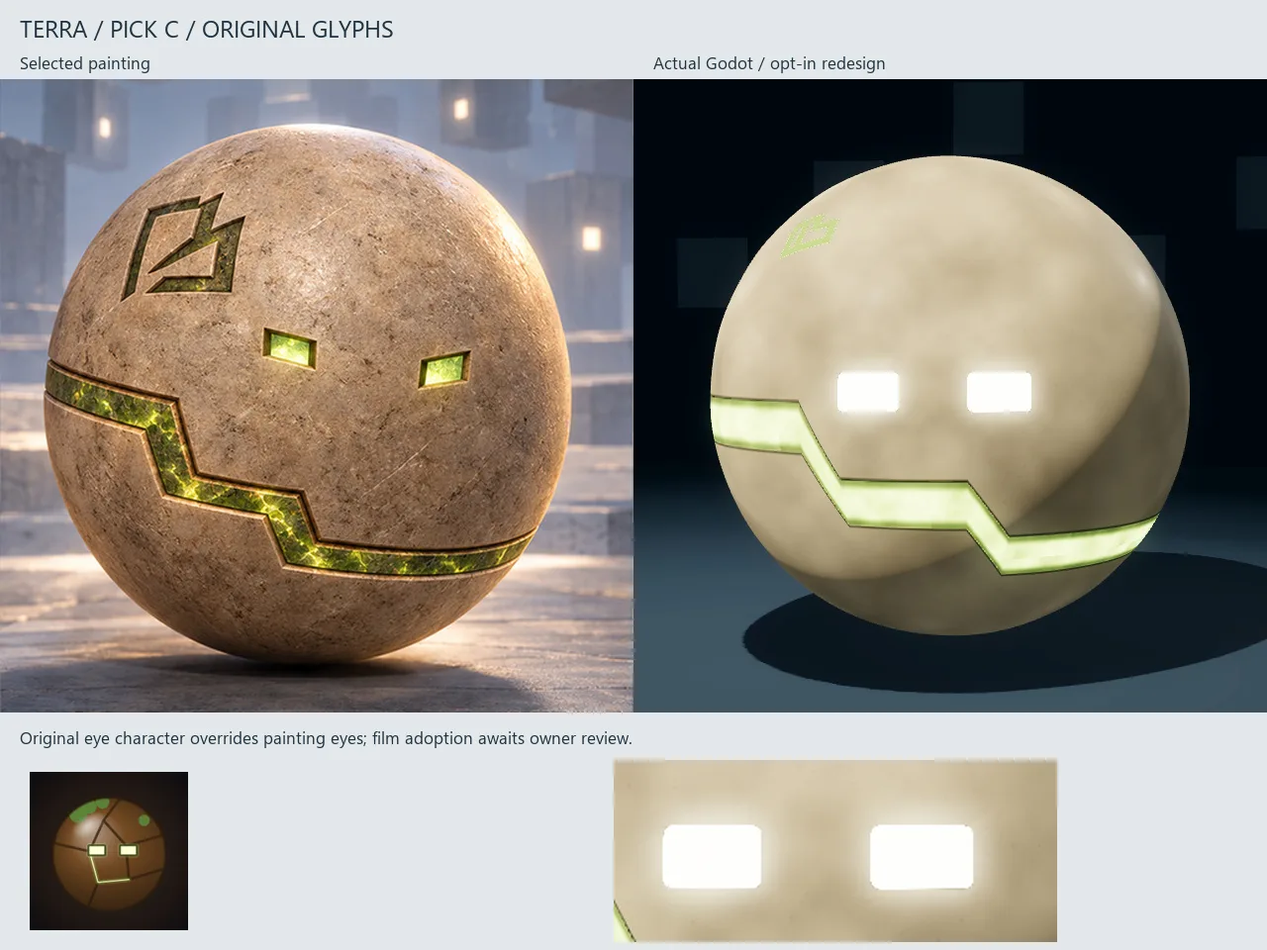
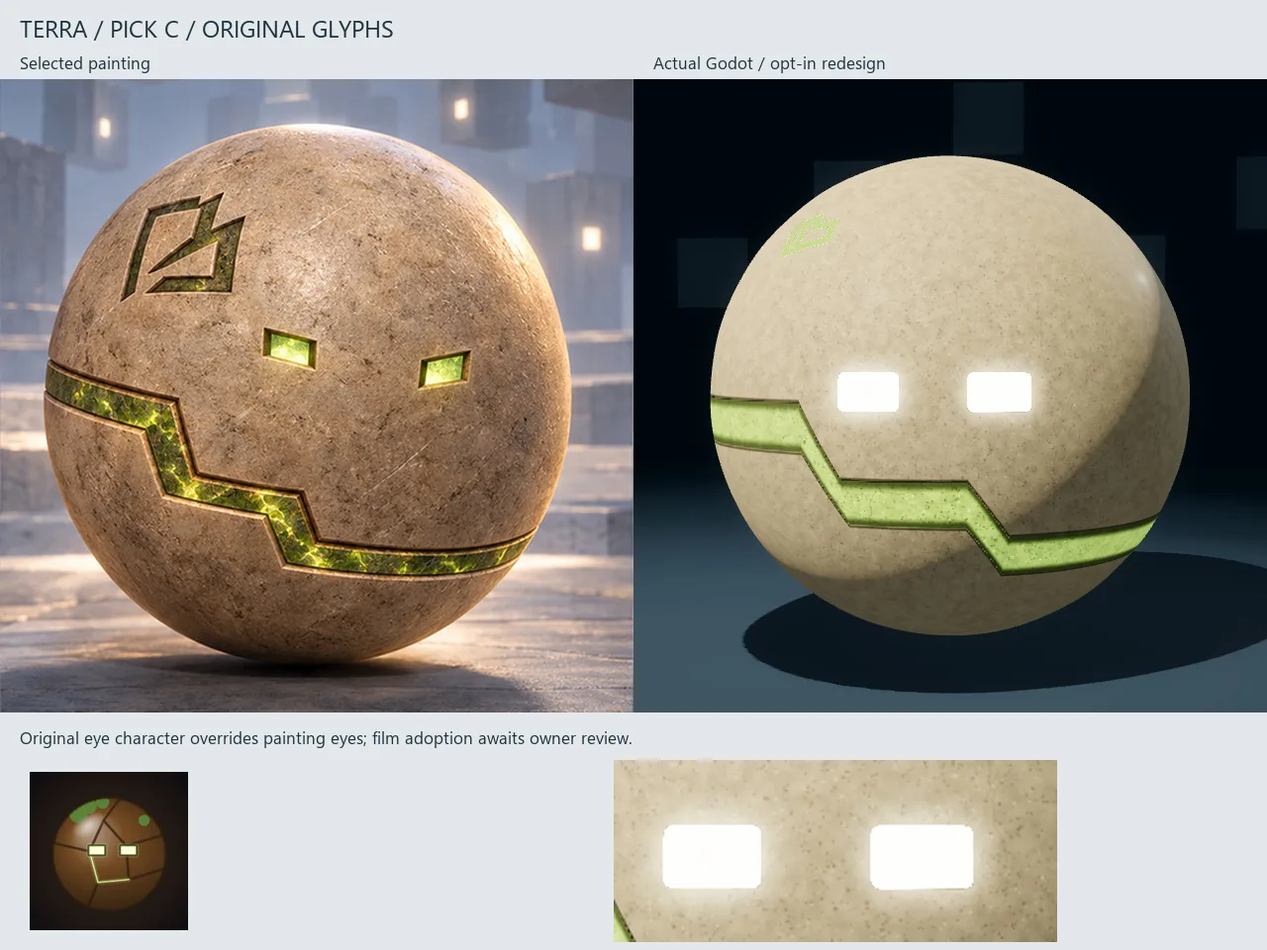
Update orb stills with mineral wear and cream eyes

diff --git a/index.html b/index.html
@@ -1,1 +1,1 @@
-<!doctype html><html lang="en"><head><meta charset="utf-8"><meta name="viewport" content="width=device-width,initial-scale=1"><meta name="description" content="Orb Fighters: building a living sandbox, one readable clash at a time."><meta name="color-scheme" content="light"><title>Development journal &middot; Orb Fighters</title><link rel="stylesheet" href="assets/style.css"></head><body><a class="skip" href="#main">Skip to content</a><header><a class="brand" href="index.html"><span class="brand-mark" aria-hidden="true">OF</span><span>ORB FIGHTERS<small>DEVELOPMENT JOURNAL</small></span></a><nav aria-label="Main navigation"><a href="index.html" aria-current="page">Home</a><a href="milestones.html">Milestones</a><a href="gallery.html">Gallery</a><a href="design.html">Design</a></nav></header><main id="main"><section class="hero"><div><p class="eyebrow">A WORLD IN THE MAKING</p><h1>Small beings.<br><span>Limitless possibility.</span></h1><p class="intro">Follow Orb Fighters as a living sandbox takes shape: expressive orbs, physical powers, and fights that leave a mark.</p><a class="button" href="milestones.html">Follow the milestones <span aria-hidden="true">&rarr;</span></a></div><div class="hero-media"><a class="hero-image-link" href="posts/2026-10-02-the-orbs-side-by-side.html" aria-label="Read the orb shell development update"><figure class="wip-still"><img src="assets/media/2026-10-02-the-orbs-side-by-side-still-2.webp?v=smooth-stone" alt="MAGNUS painting beside a smooth dark slate orb with a blue meridian and small minus and plus eyes" loading="eager" decoding="async"><figcaption><span class="wip-label">Work in progress</span> MAGNUS WIP: the dark slate shell and blue meridian remain distinct. The render is cleaner and cloudier than the painting, with a fairly uniform bright eye core.</figcaption></figure></a></div></section><section class="updates"><div class="section-title"><h2>Latest from the workshop</h2><span>NEWEST FIRST</span></div><div class="post-grid"><article class="post-card"><figure class="wip-still"><a href="assets/media/2026-10-02-twenty-seconds-in-the-duel-still-2.webp?v=late-clean"><img src="assets/media/2026-10-02-twenty-seconds-in-the-duel-still-2.webp?v=late-clean" alt="TERRA and BLAZE remain readable with the owned stone pillar removed after the second Clean" width="960" height="540" loading="lazy" decoding="async"></a><figcaption><span class="wip-label">Work in progress</span> 15.15 s - The world after the second actual C Clean: the owned pillar is gone and the pair is readable. This is not a successful counter or instant regeneration.</figcaption></figure><div class="post-meta"><time datetime="2026-10-02T17:05+09:00">02 Oct 2026, 17:05 KST</time><span class="badge">Work in progress</span></div><h2><a href="posts/2026-10-02-twenty-seconds-in-the-duel.html">Ordinary controls in the duel</a></h2><p>A twenty-second gameplay capture replays recorded mouse and key inputs through TERRA&#39;s ordinary controls against autonomous BLAZE. This is recorded input, not someone playing through the GUI or an authored reference fight. The current gameplay orbs remain in use; the selected shell study is still unapplied.</p><a class="read-more" href="posts/2026-10-02-twenty-seconds-in-the-duel.html">Read the update &rarr;</a></article><article class="post-card"><figure class="wip-still"><a href="assets/media/2026-10-02-a-fight-you-can-follow-still-2.webp?v=wide-pair"><img src="assets/media/2026-10-02-a-fight-you-can-follow-still-2.webp?v=wide-pair" alt="A wider fixed landing view shows both whole BLAZE and TERRA shells with the pillar beside them" width="1080" height="1920" loading="lazy" decoding="async"></a><figcaption><span class="wip-label">Work in progress</span> Approximately 8.23 s - The wider landing pair is established, with both whole shells visible and the pillar clear of them. An earlier camera transition still clips the frame edge.</figcaption></figure><div class="post-meta"><time datetime="2026-10-02T16:28+09:00">02 Oct 2026, 16:28 KST</time><span class="badge">Work in progress</span></div><h2><a href="posts/2026-10-02-a-fight-you-can-follow.html">Letting the landing read</a></h2><p>The reference fight now holds a wider, fixed view of BLAZE and TERRA through the landing. Both whole shells remain visible during the reviewed 8.25-9.25 second interval, and the pillar no longer covers them. The contact has room to read.</p><a class="read-more" href="posts/2026-10-02-a-fight-you-can-follow.html">Read the update &rarr;</a></article><article class="post-card"><figure class="wip-still"><a href="assets/media/2026-10-02-the-orbs-side-by-side-still-1.webp?v=smooth-stone"><img src="assets/media/2026-10-02-the-orbs-side-by-side-still-1.webp?v=smooth-stone" alt="Eight selected shell paintings beside smooth stone and ceramic orb renders in a dark studio" loading="lazy" decoding="async"></a><figcaption><span class="wip-label">Work in progress</span> Updated WIP: smoother stone and ceramic shells, wider lit inlays and a darker studio. Original small glyphs and distinct colours remain; wear and eye-light depth still need work.</figcaption></figure><div class="post-meta"><time datetime="2026-10-02T16:05:00+09:00">02 Oct 2026, 16:05 KST</time><span class="badge">Work in progress</span></div><h2><a href="posts/2026-10-02-the-orbs-side-by-side.html">Original small glyphs, eight shell directions</a></h2><p>Eight orb shells now read more like smooth stone and ceramic. Wider lit inlays stand out in a darker studio, while the small original eye glyphs and distinct colours remain.</p><a class="read-more" href="posts/2026-10-02-the-orbs-side-by-side.html">Read the update &rarr;</a></article><article class="post-card"><figure class="wip-still"><img src="assets/media/2026-10-01-a-cleaner-reference-fight-still-1.webp" alt="BLAZE drives an orange blade toward TERRA amid sparks in the earlier reference pass" width="1080" height="1920" loading="lazy" decoding="async"><figcaption><span class="wip-label">Work in progress</span> Before: the contact is readable, but bright sparks and steam crowd its focal point. This is authored reference-animation WIP.</figcaption></figure><div class="post-meta"><time datetime="2026-10-01T11:07:00+09:00">01 Oct 2026, 11:07 KST</time><span class="badge">M1</span><span class="badge">In progress</span></div><h2><a href="posts/2026-10-01-a-cleaner-reference-fight.html">A cleaner reference fight</a></h2><p>We have withdrawn the short video from this reference-fight update because the action is too confusing. Frequent angle changes, crowded fighters and weak plasma shapes make the exchange hard to follow. These work-in-progress stills remain for comparison while we rebuild the sequence.</p><a class="read-more" href="posts/2026-10-01-a-cleaner-reference-fight.html">Read the update <span aria-hidden="true">&rarr;</span></a></article><article class="post-card"><figure class="wip-still"><img src="assets/media/2026-10-01-moves-tested-as-a-complete-chain-still-1.webp" alt="Warm earth-colored TERRA faces vivid red BLAZE at a staged contact" width="1080" height="1920" loading="lazy" decoding="async"><figcaption><span class="wip-label">Work in progress</span> Latest selected orb material WIP. Red body shading is clearer, but the blade remains hidden; the next reference render changes the contact staging.</figcaption></figure><div class="post-meta"><time datetime="2026-10-01T09:44:00+09:00">01 Oct 2026, 09:44 KST</time><span class="badge">M1</span><span class="badge">In progress</span></div><h2><a href="posts/2026-10-01-moves-tested-as-a-complete-chain.html">Testing moves as a complete chain</a></h2><p>A technique can now reach the native duel core as a complete ordered chain of moves. The core quotes the whole chain before accepting it, so a later step cannot quietly overspend Glow or reuse matter that an earlier step has already reserved. An invalid step leaves the world unchanged.</p><a class="read-more" href="posts/2026-10-01-moves-tested-as-a-complete-chain.html">Read the update <span aria-hidden="true">&rarr;</span></a></article><article class="post-card"><figure class="wip-still"><img src="assets/media/2026-10-01-kept-builds-survive-a-fresh-world-still-1.webp" alt="A surviving stone pillar stands after a scripted Keep action" width="1080" height="1920" loading="lazy" decoding="async"><figcaption><span class="wip-label">Work in progress</span> Later native capture of the paid kept build. Its surviving state is tested, but the pale box material is unfinished; detailed stone shading is next.</figcaption></figure><div class="post-meta"><time datetime="2026-10-01T09:01:00+09:00">01 Oct 2026, 09:01 KST</time><span class="badge">M1</span><span class="badge">In progress</span></div><h2><a href="posts/2026-10-01-kept-builds-survive-a-fresh-world.html">Kept builds survive a fresh world</a></h2><p>The latest scripted control test now keeps a real, surviving stone build. The player targets it, pays once, and a repeated Keep action spends nothing extra. Clean leaves that paid kept build intact without issuing a refund.</p><a class="read-more" href="posts/2026-10-01-kept-builds-survive-a-fresh-world.html">Read the update <span aria-hidden="true">&rarr;</span></a></article><article class="post-card"><figure class="wip-still"><img src="assets/media/2026-10-01-controls-reach-the-duel-still-1.webp" alt="TERRA shapes stone beside BLAZE during a native input test" width="1080" height="1920" loading="lazy" decoding="async"><figcaption><span class="wip-label">Work in progress</span> Later recorded follow-up to the scripted contacts. The native input path works, but the pale pillar reads poorly; surface materials are next.</figcaption></figure><div class="post-meta"><time datetime="2026-10-01T08:31:00+09:00">01 Oct 2026, 08:31 KST</time><span class="badge">M1</span><span class="badge">In progress</span></div><h2><a href="posts/2026-10-01-controls-reach-the-duel.html">The controls reach the duel</a></h2><p>The latest scripted control test produced three physical contacts and a broken guard between TERRA and BLAZE. Every authored movement and power-shape upload in that run was accepted. The controls and shared motion now connect to the native duel&#39;s consequences.</p><a class="read-more" href="posts/2026-10-01-controls-reach-the-duel.html">Read the update <span aria-hidden="true">&rarr;</span></a></article><article class="post-card"><figure class="wip-still"><img src="assets/media/2026-10-01-giving-moves-real-consequences-still-1.webp" alt="TERRA and BLAZE stand beside a newly formed stone pillar" width="1080" height="1920" loading="lazy" decoding="async"><figcaption><span class="wip-label">Work in progress</span> Later native control capture, not the backend fixture described above. Geometry and costs are native, but stone shading and the small viewport need work.</figcaption></figure><div class="post-meta"><time datetime="2026-10-01T07:39:00+09:00">01 Oct 2026, 07:39 KST</time><span class="badge">M1</span><span class="badge">In progress</span></div><h2><a href="posts/2026-10-01-giving-moves-real-consequences.html">Giving moves real consequences</a></h2><p>The new duel backend now runs inside Godot. It accepts authored movement and power shapes, checks the available Glow and existing matter, and resolves physical contacts. Animation supplies the movement; the core accounts for its consequences.</p><a class="read-more" href="posts/2026-10-01-giving-moves-real-consequences.html">Read the update <span aria-hidden="true">&rarr;</span></a></article><article class="post-card"><figure class="wip-still"><img src="assets/media/2026-10-01-the-journal-is-live-still-1.webp" alt="The development journal home page with dated progress posts" width="1280" height="2258" loading="lazy" decoding="async"><figcaption><span class="wip-label">Work in progress</span> Later journal screenshot. This earlier layout still had no post media; images and short WIP clips are being added now.</figcaption></figure><div class="post-meta"><time datetime="2026-10-01T06:55:00+09:00">01 Oct 2026, 06:55 KST</time><span class="badge">M1</span><span class="badge">In progress</span></div><h2><a href="posts/2026-10-01-the-journal-is-live.html">The development journal is live</a></h2><p>This journal is now online. It brings together the latest development posts, milestone status and a readable summary of the design, so the progress of Orb Fighters is easier to follow on a phone.</p><a class="read-more" href="posts/2026-10-01-the-journal-is-live.html">Read the update <span aria-hidden="true">&rarr;</span></a></article><article class="post-card"><figure class="wip-still"><img src="assets/media/2026-10-01-making-fields-visible-still-1.webp" alt="MAGNUS prepares magnetic power above scattered metal filings" width="720" height="1280" loading="lazy" decoding="async"><figcaption><span class="wip-label">Work in progress</span> Cosmetic component WIP: tangible filings show the field, but they disappear at phone size. Larger, clearer alignment changes are next.</figcaption></figure><div class="post-meta"><time datetime="2026-10-01T05:24:00+09:00">01 Oct 2026, 05:24 KST</time><span class="badge">M1</span><span class="badge">In progress</span></div><h2><a href="posts/2026-10-01-making-fields-visible.html">Making fields visible through matter</a></h2><p>The latest MAGNUS study shows magnetic power through metal filings and moving alloy fragments. The field becomes visible through what it moves, giving this fighter a different shape language from stone, plasma and electrical discharge.</p><a class="read-more" href="posts/2026-10-01-making-fields-visible.html">Read the update <span aria-hidden="true">&rarr;</span></a></article><article class="post-card"><figure class="wip-still"><img src="assets/media/2026-10-01-framing-the-moment-of-contact-still-1.webp" alt="TERRA faces the camera under a dense stone-dust effect" width="1080" height="1920" loading="lazy" decoding="async"><figcaption><span class="wip-label">Work in progress</span> Camera-revision WIP: the fighter is large, but dense dust and speed lines compete with its eyes. Cleaner contact shapes are next.</figcaption></figure><div class="post-meta"><time datetime="2026-10-01T04:45:00+09:00">01 Oct 2026, 04:45 KST</time><span class="badge">M1</span><span class="badge">In progress</span></div><h2><a href="posts/2026-10-01-framing-the-moment-of-contact.html">Framing the moment of contact</a></h2><p>The latest reference-fight camera brings more of the action into view. In the recorded revision, 466 of 600 frames meet the current fighter-size and framing target, up from 332. The target is 480, and all three major impacts now keep the fighter shells inside their safety margin.</p><a class="read-more" href="posts/2026-10-01-framing-the-moment-of-contact.html">Read the update <span aria-hidden="true">&rarr;</span></a></article><article class="post-card"><figure class="wip-still"><img src="assets/media/2026-10-01-making-the-workshop-readable-still-1.webp" alt="TERRA is shown in a dedicated dummy view above technique fields" width="1080" height="1920" loading="lazy" decoding="async"><figcaption><span class="wip-label">Work in progress</span> Later control-only follow-up: the dummy has its own view. Combat is unavailable; more space for the fight is still needed.</figcaption></figure><div class="post-meta"><time datetime="2026-10-01T04:03:00+09:00">01 Oct 2026, 04:03 KST</time><span class="badge">M4</span><span class="badge">Groundwork</span></div><h2><a href="posts/2026-10-01-making-the-workshop-readable.html">Making the workshop readable</a></h2><p>The technique workshop now gives its live dummy a separate view. Larger text and scrolling controls let you adjust a recipe without covering the orb&#39;s eyes. The control guide has its own space, so instructions stay clear of the demonstration.</p><a class="read-more" href="posts/2026-10-01-making-the-workshop-readable.html">Read the update <span aria-hidden="true">&rarr;</span></a></article><article class="post-card"><figure class="wip-still"><img src="assets/media/2026-10-01-testing-controls-before-the-duel-still-1.webp" alt="TERRA faces BLAZE while a gesture charge is shown" width="1080" height="1920" loading="lazy" decoding="async"><figcaption><span class="wip-label">Work in progress</span> Input prototype only: combat is unavailable in this version. The faint guide and cramped opening view need correction.</figcaption></figure><div class="post-meta"><time datetime="2026-10-01T03:15:00+09:00">01 Oct 2026, 03:15 KST</time><span class="badge">M4</span><span class="badge">Groundwork</span></div><h2><a href="posts/2026-10-01-testing-controls-before-the-duel.html">Testing the controls before the duel</a></h2><p>The first control prototype now runs inside Godot. A recorded input session exercises direction and charge, releasing a technique, quick reactions, lock-on, Clean and Keep requests, and the technique workshop. Thirteen checks passed for input handling and saved recipes.</p><a class="read-more" href="posts/2026-10-01-testing-controls-before-the-duel.html">Read the update <span aria-hidden="true">&rarr;</span></a></article><article class="post-card"><figure class="wip-still"><img src="assets/media/2026-10-01-craft-and-first-playable-still-1.webp" alt="TERRA braces below a cloud of stone dust" width="1080" height="1920" loading="lazy" decoding="async"><figcaption><span class="wip-label">Work in progress</span> Later reference-animation WIP: dust and stone crowd the contact image. Clearer effect staging and quieter scenery are next.</figcaption></figure><div class="post-meta"><time datetime="2026-10-01T02:44:00+09:00">01 Oct 2026, 02:44 KST</time><span class="badge">M1</span><span class="badge">In progress</span></div><h2><a href="posts/2026-10-01-craft-and-first-playable.html">A clearer fight, a brighter world</a></h2><p>Orb Fighters is building toward fluid, creative power fights in a world that remembers what happened. The first reference spar pairs BLAZE&#39;s plasma with TERRA&#39;s stone shaping. That short fight sets the quality target before the systems grow around it.</p><a class="read-more" href="posts/2026-10-01-craft-and-first-playable.html">Read the update <span aria-hidden="true">&rarr;</span></a></article></div></section></main><footer><strong>Orb Fighters</strong><span>Original worlds. Shared rules. Unexpected fights.</span><a href="design.html">Explore the design</a></footer></body></html>
+<!doctype html><html lang="en"><head><meta charset="utf-8"><meta name="viewport" content="width=device-width,initial-scale=1"><meta name="description" content="Orb Fighters: building a living sandbox, one readable clash at a time."><meta name="color-scheme" content="light"><title>Development journal &middot; Orb Fighters</title><link rel="stylesheet" href="assets/style.css"></head><body><a class="skip" href="#main">Skip to content</a><header><a class="brand" href="index.html"><span class="brand-mark" aria-hidden="true">OF</span><span>ORB FIGHTERS<small>DEVELOPMENT JOURNAL</small></span></a><nav aria-label="Main navigation"><a href="index.html" aria-current="page">Home</a><a href="milestones.html">Milestones</a><a href="gallery.html">Gallery</a><a href="design.html">Design</a></nav></header><main id="main"><section class="hero"><div><p class="eyebrow">A WORLD IN THE MAKING</p><h1>Small beings.<br><span>Limitless possibility.</span></h1><p class="intro">Follow Orb Fighters as a living sandbox takes shape: expressive orbs, physical powers, and fights that leave a mark.</p><a class="button" href="milestones.html">Follow the milestones <span aria-hidden="true">&rarr;</span></a></div><div class="hero-media"><a class="hero-image-link" href="posts/2026-10-02-the-orbs-side-by-side.html" aria-label="Read the orb material development update"><figure class="wip-still"><img src="assets/media/2026-10-02-the-orbs-side-by-side-still-2.webp?v=mineral-cream" alt="MAGNUS painting beside a dark slate mineral shell with a textured blue meridian and small cream minus and plus eyes" loading="eager" decoding="async"><figcaption><span class="wip-label">Work in progress</span> MAGNUS WIP: the dark slate shell keeps fine pores and uneven wear around its blue meridian. The eye cores are still flat white, and the pale sigil and material depth remain unfinished.</figcaption></figure></a></div></section><section class="updates"><div class="section-title"><h2>Latest from the workshop</h2><span>NEWEST FIRST</span></div><div class="post-grid"><article class="post-card"><figure class="wip-still"><a href="assets/media/2026-10-02-twenty-seconds-in-the-duel-still-2.webp?v=late-clean"><img src="assets/media/2026-10-02-twenty-seconds-in-the-duel-still-2.webp?v=late-clean" alt="TERRA and BLAZE remain readable with the owned stone pillar removed after the second Clean" width="960" height="540" loading="lazy" decoding="async"></a><figcaption><span class="wip-label">Work in progress</span> 15.15 s - The world after the second actual C Clean: the owned pillar is gone and the pair is readable. This is not a successful counter or instant regeneration.</figcaption></figure><div class="post-meta"><time datetime="2026-10-02T17:05+09:00">02 Oct 2026, 17:05 KST</time><span class="badge">Work in progress</span></div><h2><a href="posts/2026-10-02-twenty-seconds-in-the-duel.html">Ordinary controls in the duel</a></h2><p>A twenty-second gameplay capture replays recorded mouse and key inputs through TERRA&#39;s ordinary controls against autonomous BLAZE. This is recorded input, not someone playing through the GUI or an authored reference fight. The current gameplay orbs remain in use; the selected shell study is still unapplied.</p><a class="read-more" href="posts/2026-10-02-twenty-seconds-in-the-duel.html">Read the update &rarr;</a></article><article class="post-card"><figure class="wip-still"><a href="assets/media/2026-10-02-a-fight-you-can-follow-still-2.webp?v=wide-pair"><img src="assets/media/2026-10-02-a-fight-you-can-follow-still-2.webp?v=wide-pair" alt="A wider fixed landing view shows both whole BLAZE and TERRA shells with the pillar beside them" width="1080" height="1920" loading="lazy" decoding="async"></a><figcaption><span class="wip-label">Work in progress</span> Approximately 8.23 s - The wider landing pair is established, with both whole shells visible and the pillar clear of them. An earlier camera transition still clips the frame edge.</figcaption></figure><div class="post-meta"><time datetime="2026-10-02T16:28+09:00">02 Oct 2026, 16:28 KST</time><span class="badge">Work in progress</span></div><h2><a href="posts/2026-10-02-a-fight-you-can-follow.html">Letting the landing read</a></h2><p>The reference fight now holds a wider, fixed view of BLAZE and TERRA through the landing. Both whole shells remain visible during the reviewed 8.25-9.25 second interval, and the pillar no longer covers them. The contact has room to read.</p><a class="read-more" href="posts/2026-10-02-a-fight-you-can-follow.html">Read the update &rarr;</a></article><article class="post-card"><figure class="wip-still"><a href="assets/media/2026-10-02-the-orbs-side-by-side-still-1.webp?v=mineral-cream"><img src="assets/media/2026-10-02-the-orbs-side-by-side-still-1.webp?v=mineral-cream" alt="Eight selected paintings beside mineral-textured stone and ceramic orb studies with original small cream eye glyphs" loading="lazy" decoding="async"></a><figcaption><span class="wip-label">Work in progress</span> Mineral WIP: fine pores, inclusions and uneven wear replace cloudy patches. Wider coloured channels carry texture; lit core interiors and pale sigils still need depth.</figcaption></figure><div class="post-meta"><time datetime="2026-10-02T16:05:00+09:00">02 Oct 2026, 16:05 KST</time><span class="badge">Work in progress</span></div><h2><a href="posts/2026-10-02-the-orbs-side-by-side.html">Original small glyphs, eight shell directions</a></h2><p>The eight shells now use fine mineral pores, inclusions and uneven wear instead of broad cloudy patches. Stone and ceramic stay restrained, while wider coloured channels carry texture in a dark studio. MAGNUS keeps its dark slate body.</p><a class="read-more" href="posts/2026-10-02-the-orbs-side-by-side.html">Read the update &rarr;</a></article><article class="post-card"><figure class="wip-still"><img src="assets/media/2026-10-01-a-cleaner-reference-fight-still-1.webp" alt="BLAZE drives an orange blade toward TERRA amid sparks in the earlier reference pass" width="1080" height="1920" loading="lazy" decoding="async"><figcaption><span class="wip-label">Work in progress</span> Before: the contact is readable, but bright sparks and steam crowd its focal point. This is authored reference-animation WIP.</figcaption></figure><div class="post-meta"><time datetime="2026-10-01T11:07:00+09:00">01 Oct 2026, 11:07 KST</time><span class="badge">M1</span><span class="badge">In progress</span></div><h2><a href="posts/2026-10-01-a-cleaner-reference-fight.html">A cleaner reference fight</a></h2><p>We have withdrawn the short video from this reference-fight update because the action is too confusing. Frequent angle changes, crowded fighters and weak plasma shapes make the exchange hard to follow. These work-in-progress stills remain for comparison while we rebuild the sequence.</p><a class="read-more" href="posts/2026-10-01-a-cleaner-reference-fight.html">Read the update <span aria-hidden="true">&rarr;</span></a></article><article class="post-card"><figure class="wip-still"><img src="assets/media/2026-10-01-moves-tested-as-a-complete-chain-still-1.webp" alt="Warm earth-colored TERRA faces vivid red BLAZE at a staged contact" width="1080" height="1920" loading="lazy" decoding="async"><figcaption><span class="wip-label">Work in progress</span> Latest selected orb material WIP. Red body shading is clearer, but the blade remains hidden; the next reference render changes the contact staging.</figcaption></figure><div class="post-meta"><time datetime="2026-10-01T09:44:00+09:00">01 Oct 2026, 09:44 KST</time><span class="badge">M1</span><span class="badge">In progress</span></div><h2><a href="posts/2026-10-01-moves-tested-as-a-complete-chain.html">Testing moves as a complete chain</a></h2><p>A technique can now reach the native duel core as a complete ordered chain of moves. The core quotes the whole chain before accepting it, so a later step cannot quietly overspend Glow or reuse matter that an earlier step has already reserved. An invalid step leaves the world unchanged.</p><a class="read-more" href="posts/2026-10-01-moves-tested-as-a-complete-chain.html">Read the update <span aria-hidden="true">&rarr;</span></a></article><article class="post-card"><figure class="wip-still"><img src="assets/media/2026-10-01-kept-builds-survive-a-fresh-world-still-1.webp" alt="A surviving stone pillar stands after a scripted Keep action" width="1080" height="1920" loading="lazy" decoding="async"><figcaption><span class="wip-label">Work in progress</span> Later native capture of the paid kept build. Its surviving state is tested, but the pale box material is unfinished; detailed stone shading is next.</figcaption></figure><div class="post-meta"><time datetime="2026-10-01T09:01:00+09:00">01 Oct 2026, 09:01 KST</time><span class="badge">M1</span><span class="badge">In progress</span></div><h2><a href="posts/2026-10-01-kept-builds-survive-a-fresh-world.html">Kept builds survive a fresh world</a></h2><p>The latest scripted control test now keeps a real, surviving stone build. The player targets it, pays once, and a repeated Keep action spends nothing extra. Clean leaves that paid kept build intact without issuing a refund.</p><a class="read-more" href="posts/2026-10-01-kept-builds-survive-a-fresh-world.html">Read the update <span aria-hidden="true">&rarr;</span></a></article><article class="post-card"><figure class="wip-still"><img src="assets/media/2026-10-01-controls-reach-the-duel-still-1.webp" alt="TERRA shapes stone beside BLAZE during a native input test" width="1080" height="1920" loading="lazy" decoding="async"><figcaption><span class="wip-label">Work in progress</span> Later recorded follow-up to the scripted contacts. The native input path works, but the pale pillar reads poorly; surface materials are next.</figcaption></figure><div class="post-meta"><time datetime="2026-10-01T08:31:00+09:00">01 Oct 2026, 08:31 KST</time><span class="badge">M1</span><span class="badge">In progress</span></div><h2><a href="posts/2026-10-01-controls-reach-the-duel.html">The controls reach the duel</a></h2><p>The latest scripted control test produced three physical contacts and a broken guard between TERRA and BLAZE. Every authored movement and power-shape upload in that run was accepted. The controls and shared motion now connect to the native duel&#39;s consequences.</p><a class="read-more" href="posts/2026-10-01-controls-reach-the-duel.html">Read the update <span aria-hidden="true">&rarr;</span></a></article><article class="post-card"><figure class="wip-still"><img src="assets/media/2026-10-01-giving-moves-real-consequences-still-1.webp" alt="TERRA and BLAZE stand beside a newly formed stone pillar" width="1080" height="1920" loading="lazy" decoding="async"><figcaption><span class="wip-label">Work in progress</span> Later native control capture, not the backend fixture described above. Geometry and costs are native, but stone shading and the small viewport need work.</figcaption></figure><div class="post-meta"><time datetime="2026-10-01T07:39:00+09:00">01 Oct 2026, 07:39 KST</time><span class="badge">M1</span><span class="badge">In progress</span></div><h2><a href="posts/2026-10-01-giving-moves-real-consequences.html">Giving moves real consequences</a></h2><p>The new duel backend now runs inside Godot. It accepts authored movement and power shapes, checks the available Glow and existing matter, and resolves physical contacts. Animation supplies the movement; the core accounts for its consequences.</p><a class="read-more" href="posts/2026-10-01-giving-moves-real-consequences.html">Read the update <span aria-hidden="true">&rarr;</span></a></article><article class="post-card"><figure class="wip-still"><img src="assets/media/2026-10-01-the-journal-is-live-still-1.webp" alt="The development journal home page with dated progress posts" width="1280" height="2258" loading="lazy" decoding="async"><figcaption><span class="wip-label">Work in progress</span> Later journal screenshot. This earlier layout still had no post media; images and short WIP clips are being added now.</figcaption></figure><div class="post-meta"><time datetime="2026-10-01T06:55:00+09:00">01 Oct 2026, 06:55 KST</time><span class="badge">M1</span><span class="badge">In progress</span></div><h2><a href="posts/2026-10-01-the-journal-is-live.html">The development journal is live</a></h2><p>This journal is now online. It brings together the latest development posts, milestone status and a readable summary of the design, so the progress of Orb Fighters is easier to follow on a phone.</p><a class="read-more" href="posts/2026-10-01-the-journal-is-live.html">Read the update <span aria-hidden="true">&rarr;</span></a></article><article class="post-card"><figure class="wip-still"><img src="assets/media/2026-10-01-making-fields-visible-still-1.webp" alt="MAGNUS prepares magnetic power above scattered metal filings" width="720" height="1280" loading="lazy" decoding="async"><figcaption><span class="wip-label">Work in progress</span> Cosmetic component WIP: tangible filings show the field, but they disappear at phone size. Larger, clearer alignment changes are next.</figcaption></figure><div class="post-meta"><time datetime="2026-10-01T05:24:00+09:00">01 Oct 2026, 05:24 KST</time><span class="badge">M1</span><span class="badge">In progress</span></div><h2><a href="posts/2026-10-01-making-fields-visible.html">Making fields visible through matter</a></h2><p>The latest MAGNUS study shows magnetic power through metal filings and moving alloy fragments. The field becomes visible through what it moves, giving this fighter a different shape language from stone, plasma and electrical discharge.</p><a class="read-more" href="posts/2026-10-01-making-fields-visible.html">Read the update <span aria-hidden="true">&rarr;</span></a></article><article class="post-card"><figure class="wip-still"><img src="assets/media/2026-10-01-framing-the-moment-of-contact-still-1.webp" alt="TERRA faces the camera under a dense stone-dust effect" width="1080" height="1920" loading="lazy" decoding="async"><figcaption><span class="wip-label">Work in progress</span> Camera-revision WIP: the fighter is large, but dense dust and speed lines compete with its eyes. Cleaner contact shapes are next.</figcaption></figure><div class="post-meta"><time datetime="2026-10-01T04:45:00+09:00">01 Oct 2026, 04:45 KST</time><span class="badge">M1</span><span class="badge">In progress</span></div><h2><a href="posts/2026-10-01-framing-the-moment-of-contact.html">Framing the moment of contact</a></h2><p>The latest reference-fight camera brings more of the action into view. In the recorded revision, 466 of 600 frames meet the current fighter-size and framing target, up from 332. The target is 480, and all three major impacts now keep the fighter shells inside their safety margin.</p><a class="read-more" href="posts/2026-10-01-framing-the-moment-of-contact.html">Read the update <span aria-hidden="true">&rarr;</span></a></article><article class="post-card"><figure class="wip-still"><img src="assets/media/2026-10-01-making-the-workshop-readable-still-1.webp" alt="TERRA is shown in a dedicated dummy view above technique fields" width="1080" height="1920" loading="lazy" decoding="async"><figcaption><span class="wip-label">Work in progress</span> Later control-only follow-up: the dummy has its own view. Combat is unavailable; more space for the fight is still needed.</figcaption></figure><div class="post-meta"><time datetime="2026-10-01T04:03:00+09:00">01 Oct 2026, 04:03 KST</time><span class="badge">M4</span><span class="badge">Groundwork</span></div><h2><a href="posts/2026-10-01-making-the-workshop-readable.html">Making the workshop readable</a></h2><p>The technique workshop now gives its live dummy a separate view. Larger text and scrolling controls let you adjust a recipe without covering the orb&#39;s eyes. The control guide has its own space, so instructions stay clear of the demonstration.</p><a class="read-more" href="posts/2026-10-01-making-the-workshop-readable.html">Read the update <span aria-hidden="true">&rarr;</span></a></article><article class="post-card"><figure class="wip-still"><img src="assets/media/2026-10-01-testing-controls-before-the-duel-still-1.webp" alt="TERRA faces BLAZE while a gesture charge is shown" width="1080" height="1920" loading="lazy" decoding="async"><figcaption><span class="wip-label">Work in progress</span> Input prototype only: combat is unavailable in this version. The faint guide and cramped opening view need correction.</figcaption></figure><div class="post-meta"><time datetime="2026-10-01T03:15:00+09:00">01 Oct 2026, 03:15 KST</time><span class="badge">M4</span><span class="badge">Groundwork</span></div><h2><a href="posts/2026-10-01-testing-controls-before-the-duel.html">Testing the controls before the duel</a></h2><p>The first control prototype now runs inside Godot. A recorded input session exercises direction and charge, releasing a technique, quick reactions, lock-on, Clean and Keep requests, and the technique workshop. Thirteen checks passed for input handling and saved recipes.</p><a class="read-more" href="posts/2026-10-01-testing-controls-before-the-duel.html">Read the update <span aria-hidden="true">&rarr;</span></a></article><article class="post-card"><figure class="wip-still"><img src="assets/media/2026-10-01-craft-and-first-playable-still-1.webp" alt="TERRA braces below a cloud of stone dust" width="1080" height="1920" loading="lazy" decoding="async"><figcaption><span class="wip-label">Work in progress</span> Later reference-animation WIP: dust and stone crowd the contact image. Clearer effect staging and quieter scenery are next.</figcaption></figure><div class="post-meta"><time datetime="2026-10-01T02:44:00+09:00">01 Oct 2026, 02:44 KST</time><span class="badge">M1</span><span class="badge">In progress</span></div><h2><a href="posts/2026-10-01-craft-and-first-playable.html">A clearer fight, a brighter world</a></h2><p>Orb Fighters is building toward fluid, creative power fights in a world that remembers what happened. The first reference spar pairs BLAZE&#39;s plasma with TERRA&#39;s stone shaping. That short fight sets the quality target before the systems grow around it.</p><a class="read-more" href="posts/2026-10-01-craft-and-first-playable.html">Read the update <span aria-hidden="true">&rarr;</span></a></article></div></section></main><footer><strong>Orb Fighters</strong><span>Original worlds. Shared rules. Unexpected fights.</span><a href="design.html">Explore the design</a></footer></body></html>

diff --git a/posts/2026-10-02-the-orbs-side-by-side.html b/posts/2026-10-02-the-orbs-side-by-side.html
@@ -1,1 +1,1 @@
-<!doctype html><html lang="en"><head><meta charset="utf-8"><meta name="viewport" content="width=device-width,initial-scale=1"><meta name="description" content="Orb Fighters: building a living sandbox, one readable clash at a time."><meta name="color-scheme" content="light"><title>Original small glyphs, eight shell directions &middot; Orb Fighters</title><link rel="stylesheet" href="../assets/style.css"></head><body><a class="skip" href="#main">Skip to content</a><header><a class="brand" href="../index.html"><span class="brand-mark" aria-hidden="true">OF</span><span>ORB FIGHTERS<small>DEVELOPMENT JOURNAL</small></span></a><nav aria-label="Main navigation"><a href="../index.html" aria-current="page">Home</a><a href="../milestones.html">Milestones</a><a href="../gallery.html">Gallery</a><a href="../design.html">Design</a></nav></header><main id="main"><article class="article"><a class="back" href="../index.html">&larr; All updates</a><div class="post-meta"><time datetime="2026-10-02T16:05:00+09:00">02 Oct 2026, 16:05 KST</time><span class="badge">Work in progress</span></div><h1>Original small glyphs, eight shell directions</h1><p>Eight orb shells now read more like smooth stone and ceramic. Wider lit inlays stand out in a darker studio, while the small original eye glyphs and distinct colours remain.</p><p>These paired views place the selected paintings beside the latest renders. TERRA has a smoother warm shell and a broad green inlay. MAGNUS keeps its dark slate body and blue meridian; the busy surface patterns have been pared back.</p><p>The painting match is still work in progress. Shell wear looks cloudy and cleaner than the paintings, and the eyes have fairly uniform bright cores. The next pass needs more convincing wear and depth in the light without losing the simple glyphs.</p><section class="post-visuals"><h2>Smoother shells, wider light</h2><figure class="wip-still"><a href="../assets/media/2026-10-02-the-orbs-side-by-side-still-1.webp?v=smooth-stone"><img src="../assets/media/2026-10-02-the-orbs-side-by-side-still-1.webp?v=smooth-stone" alt="Eight selected shell paintings beside smooth stone and ceramic orb renders in a dark studio" loading="lazy" decoding="async"></a><figcaption><span class="wip-label">Work in progress</span> Updated WIP: smoother stone and ceramic shells, wider lit inlays and a darker studio. Original small glyphs and distinct colours remain; wear and eye-light depth still need work.</figcaption></figure><figure class="wip-still"><a href="../assets/media/2026-10-02-the-orbs-side-by-side-still-2.webp?v=smooth-stone"><img src="../assets/media/2026-10-02-the-orbs-side-by-side-still-2.webp?v=smooth-stone" alt="MAGNUS painting beside a smooth dark slate orb with a blue meridian and small minus and plus eyes" loading="lazy" decoding="async"></a><figcaption><span class="wip-label">Work in progress</span> MAGNUS WIP: the dark slate shell and blue meridian remain distinct. The render is cleaner and cloudier than the painting, with a fairly uniform bright eye core.</figcaption></figure><figure class="wip-still"><a href="../assets/media/2026-10-02-the-orbs-side-by-side-still-3.webp?v=smooth-stone"><img src="../assets/media/2026-10-02-the-orbs-side-by-side-still-3.webp?v=smooth-stone" alt="TERRA stone painting beside a smooth warm ceramic shell with a wider green inlay and small rectangular eyes" loading="lazy" decoding="async"></a><figcaption><span class="wip-label">Work in progress</span> TERRA WIP: a smoother warm shell and wider green inlay replace the busy surface treatment. The cloudy wear and bright eye cores still fall short of the painting.</figcaption></figure></section></article></main><footer><strong>Orb Fighters</strong><span>Original worlds. Shared rules. Unexpected fights.</span><a href="../design.html">Explore the design</a></footer></body></html>
+<!doctype html><html lang="en"><head><meta charset="utf-8"><meta name="viewport" content="width=device-width,initial-scale=1"><meta name="description" content="Orb Fighters: building a living sandbox, one readable clash at a time."><meta name="color-scheme" content="light"><title>Original small glyphs, eight shell directions &middot; Orb Fighters</title><link rel="stylesheet" href="../assets/style.css"></head><body><a class="skip" href="#main">Skip to content</a><header><a class="brand" href="../index.html"><span class="brand-mark" aria-hidden="true">OF</span><span>ORB FIGHTERS<small>DEVELOPMENT JOURNAL</small></span></a><nav aria-label="Main navigation"><a href="../index.html" aria-current="page">Home</a><a href="../milestones.html">Milestones</a><a href="../gallery.html">Gallery</a><a href="../design.html">Design</a></nav></header><main id="main"><article class="article"><a class="back" href="../index.html">&larr; All updates</a><div class="post-meta"><time datetime="2026-10-02T16:05:00+09:00">02 Oct 2026, 16:05 KST</time><span class="badge">Work in progress</span></div><h1>Original small glyphs, eight shell directions</h1><p>The eight shells now use fine mineral pores, inclusions and uneven wear instead of broad cloudy patches. Stone and ceramic stay restrained, while wider coloured channels carry texture in a dark studio. MAGNUS keeps its dark slate body.</p><p>The original small cream eye glyphs are restored at full strength. BLAZE&#39;s thin eyes stay legible at 128 pixels without a green outline. These paired views show the selected paintings beside the latest material study, including TERRA&#39;s warm stone and MAGNUS&#39;s blue meridian.</p><p>The core interiors still read as uniform, flat white, and the sigils remain pale. Roughness and material depth still fall short of the paintings. This remains a material study in progress.</p><section class="post-visuals"><h2>Mineral texture, original cream glyphs</h2><figure class="wip-still"><a href="../assets/media/2026-10-02-the-orbs-side-by-side-still-1.webp?v=mineral-cream"><img src="../assets/media/2026-10-02-the-orbs-side-by-side-still-1.webp?v=mineral-cream" alt="Eight selected paintings beside mineral-textured stone and ceramic orb studies with original small cream eye glyphs" loading="lazy" decoding="async"></a><figcaption><span class="wip-label">Work in progress</span> Mineral WIP: fine pores, inclusions and uneven wear replace cloudy patches. Wider coloured channels carry texture; lit core interiors and pale sigils still need depth.</figcaption></figure><figure class="wip-still"><a href="../assets/media/2026-10-02-the-orbs-side-by-side-still-2.webp?v=mineral-cream"><img src="../assets/media/2026-10-02-the-orbs-side-by-side-still-2.webp?v=mineral-cream" alt="MAGNUS painting beside a dark slate mineral shell with a textured blue meridian and small cream minus and plus eyes" loading="lazy" decoding="async"></a><figcaption><span class="wip-label">Work in progress</span> MAGNUS WIP: the dark slate shell keeps fine pores and uneven wear around its blue meridian. The eye cores are still flat white, and the pale sigil and material depth remain unfinished.</figcaption></figure><figure class="wip-still"><a href="../assets/media/2026-10-02-the-orbs-side-by-side-still-3.webp?v=mineral-cream"><img src="../assets/media/2026-10-02-the-orbs-side-by-side-still-3.webp?v=mineral-cream" alt="TERRA painting beside a warm mineral stone shell with small cream rectangular eyes and a widened textured green channel" loading="lazy" decoding="async"></a><figcaption><span class="wip-label">Work in progress</span> TERRA WIP: fine mineral texture and uneven wear replace the cloudy surface, with cream rectangular eyes and a wider green channel. Roughness and depth still fall short of the painting.</figcaption></figure></section></article></main><footer><strong>Orb Fighters</strong><span>Original worlds. Shared rules. Unexpected fights.</span><a href="../design.html">Explore the design</a></footer></body></html>
